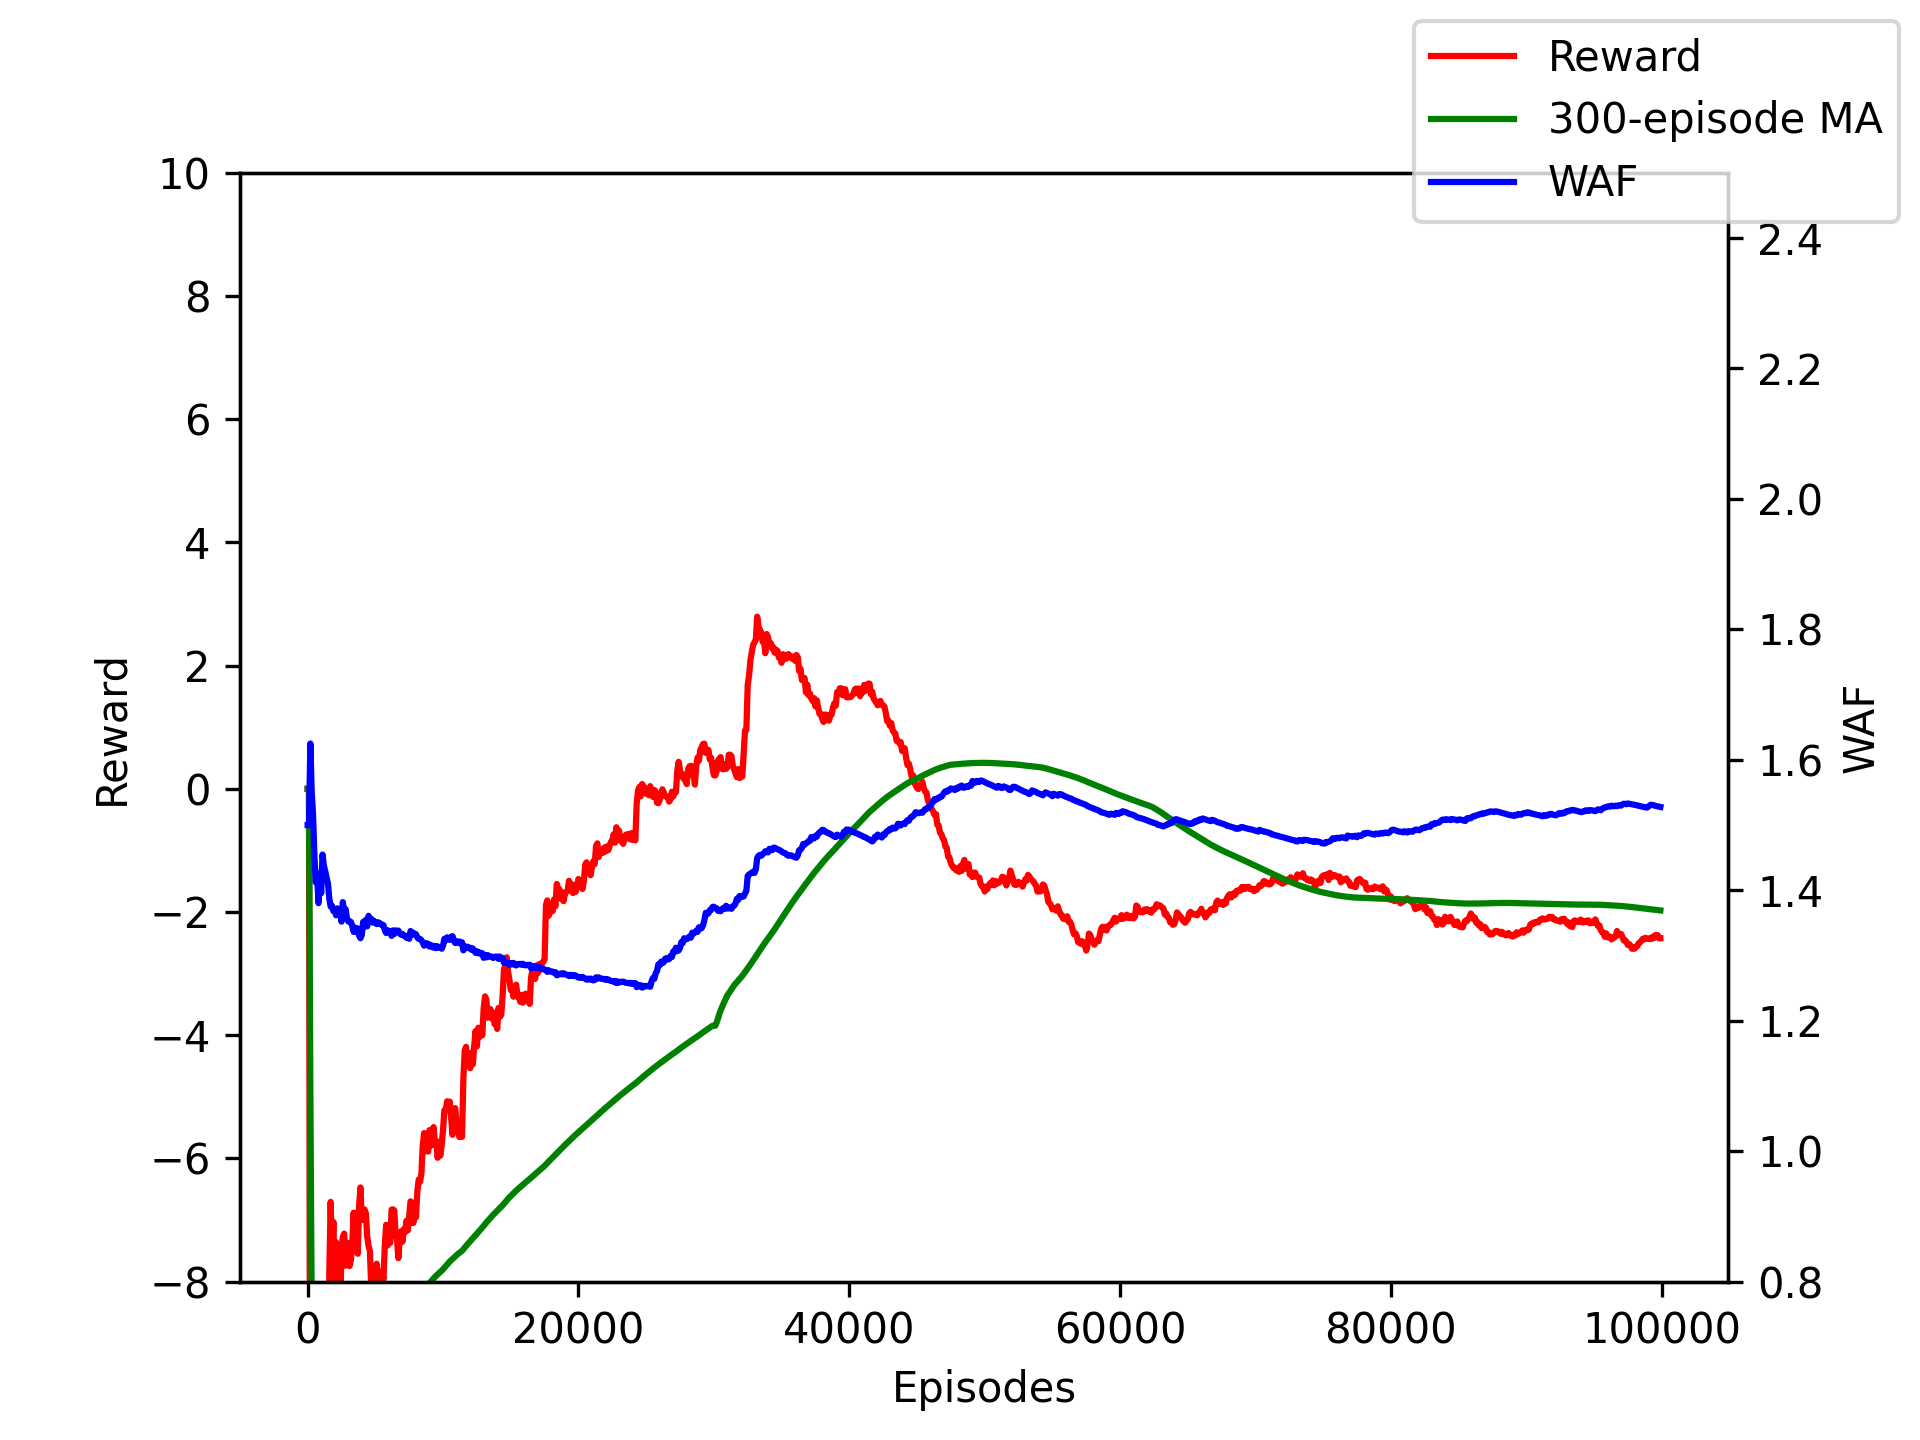
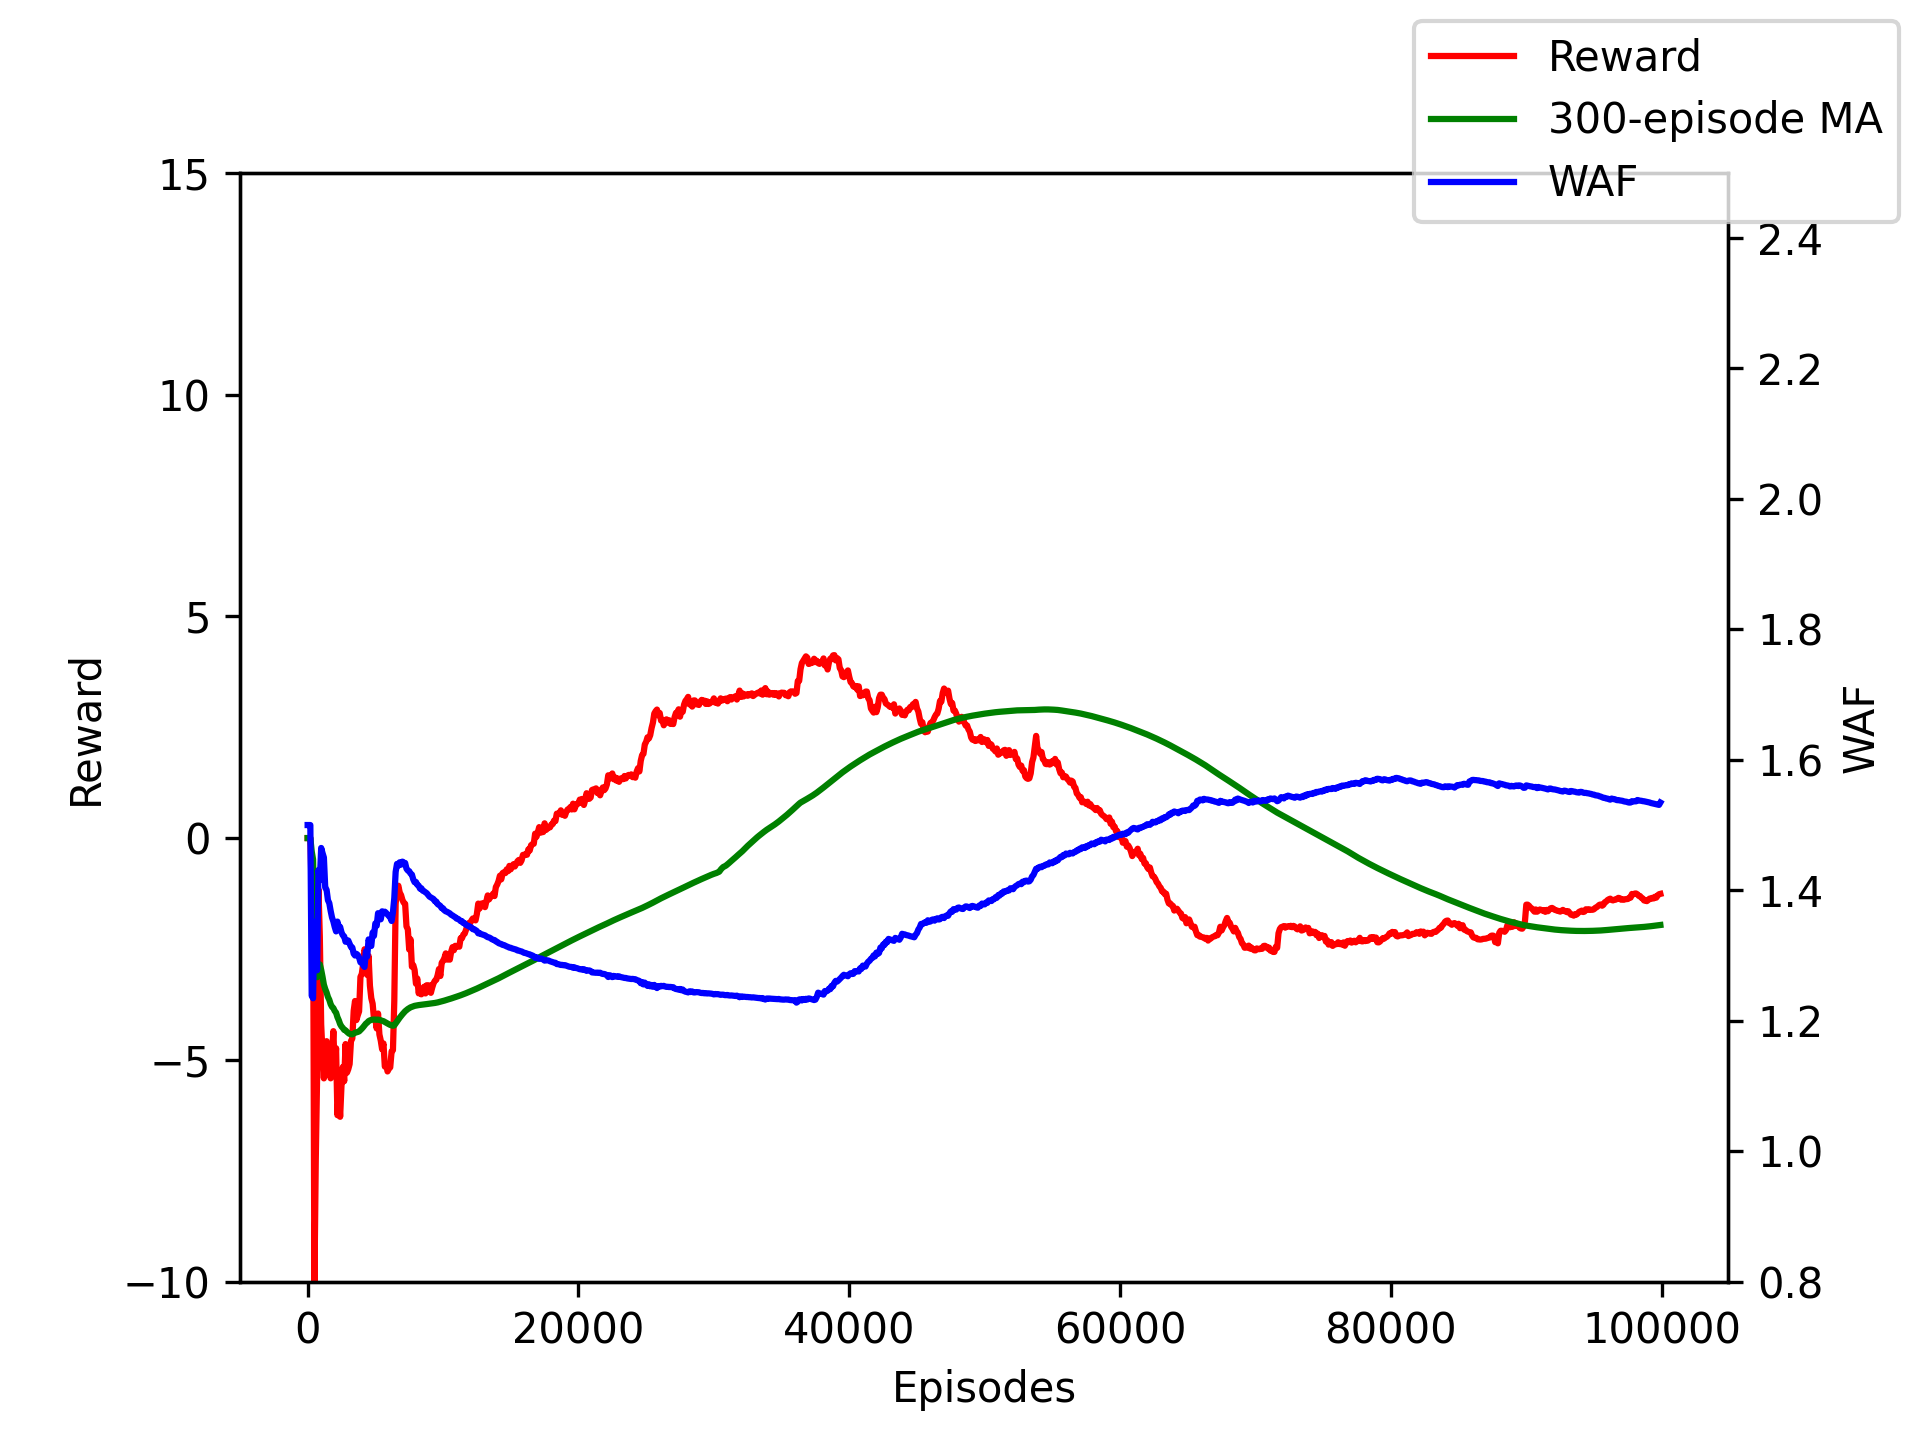
add report

diff --git a/host/host_interface.py b/host/host_interface.py
@@ -16,8 +16,11 @@ class HostInterface:
         self.hostRequestQueueAction = HostRequestQueueAction()
         self.hostRequestQueueAction.LoadTrace(TRACE_PATH, TRACE_LENGTH)
         self.hostRequestQueueAction._idx = START_POINT
-        self.flashTranslation = FlashTranslation()
+        self.flashTranslation = FlashTranslation(self)
         self.currentRequest = None
+        self.coldActionCount = 0
+        self.hotActionCount = 0
+        self.rewardSum = 0
 
     # reset everything
     def Reset(self):
@@ -25,6 +28,9 @@ class HostInterface:
         self.hostRequestQueueAction.Reset()
         self.episode = 0 
         self.step = 0
+        self.coldActionCount = 0
+        self.hotActionCount = 0
+        self.rewardSum = 0
         self.currentRequest = self.hostRequestQueueAction.GetWriteRequest()
         return self.currentRequest
 
@@ -33,6 +39,9 @@ class HostInterface:
         self.flashTranslation.Reset()
         self.episode += 1
         self.step = 0
+        self.coldActionCount = 0
+        self.hotActionCount = 0
+        self.rewardSum = 0
         self.currentRequest = self.hostRequestQueueAction.GetWriteRequest()
         return self.currentRequest
 
@@ -60,12 +69,21 @@ class HostInterface:
     
     def GetChangeRatioReward(self):
         return self.flashTranslation.nandController.GetChangeRatioReward()
+    
+    def GetColdHotCount(self):
+        return self.coldActionCount, self.hotActionCount
+
+    def GetTotalReward(self):
+        return self.rewardSum
 
     # environment step for testing strategy
     def Step(self):
         writeRequest = self.hostRequestQueueAction.GetWriteRequest()
         totalWriteBytes = self.Fio(writeRequest)
         self.step += 1
+        self.EstimateStatus()
+        reward = self.GetReward()
+        self.rewardSum += reward
         return writeRequest, totalWriteBytes
 
     def Fio(self, request):
@@ -73,11 +91,16 @@ class HostInterface:
     
     # environment step for RL strategy
     def StepByAction(self, action):
+        if action == 0:
+            self.coldActionCount += 1
+        else:
+            self.hotActionCount += 1
         totalWriteBytes = self.FioByAction(self.currentRequest, action)
         self.step += 1
         self.currentRequest = self.hostRequestQueueAction.GetWriteRequest()
         self.EstimateStatus()
         reward = self.GetReward()
+        self.rewardSum += reward
         return reward, self.currentRequest
     
     def FioByAction(self, request, action):

diff --git a/main.py b/main.py
@@ -1,5 +1,6 @@
 from host.host_interface import HostInterface
 from libs.history import History
+from libs.report import WriteReport
 import multiprocessing
 from tqdm import tqdm
 from dotenv import load_dotenv
@@ -16,7 +17,7 @@ SIMULATE_PROGRESS_RESULT = os.getenv('SIMULATE_PROGRESS_RESULT')
 CHANGE_RATIO_PROGRESS_RESULT = os.getenv('CHANGE_RATIO_PROGRESS_RESULT')
 MA_PERIOD = int(os.getenv('MA_PERIOD'))
 CHANGE_RATIO_REWARD = bool(int(os.getenv('CHANGE_RATIO_REWARD')))
-
+REPORT_RESULT = os.getenv('REPORT_RESULT')
 
 def strategy(strategyType):
     hostInterface = HostInterface()
@@ -38,6 +39,11 @@ def strategy(strategyType):
     history.ShowGCDistribution(f'{GC_DISTRIBUTION_RESULT}/{strategyType}.png', hostInterface.GetGCSuccessEpisodes())
     if CHANGE_RATIO_REWARD:
         history.ShowChangeRatioReward(f'{CHANGE_RATIO_PROGRESS_RESULT}/{strategyType}.png')
+    # write simulation report 
+    gcCount = len(hostInterface.GetGCSuccessEpisodes().keys())
+    rewardSum = hostInterface.GetTotalReward()
+    coldCount, hotCount = hostInterface.GetColdHotCount()
+    WriteReport(f'{REPORT_RESULT}/{strategyType}.txt', TRACE_RUN_LENGTH, gcCount, rewardSum, coldCount, hotCount)
 
 def main():
     strategyTypes = STRATEGY_TYPES.split(',')

diff --git a/test.py b/test.py
@@ -56,5 +56,19 @@ def DrawingGCDistribution():
     plt.savefig('test2.png', dpi=300)
     plt.clf()
 
+def WriteReport(path, length, gcCount, rewardSum, coldCount, hotCount):
+    report = f'Simulation Report\n'
+    report += '-' * 35 + '\n'
+    report += '{:35s} {:20d}\n'.format('Simulate Length:', length)
+    report += '{:35s} {:20d}\n'.format('Total Gc Times:', gcCount)
+    report += '{:35s} {:20.2f}\n'.format('Total Reward:', rewardSum)
+    report += '{:35s} {:20d}\n'.format('Cold Action Count:', coldCount)
+    report += '{:35s} {:20d}\n'.format('Hot Action Count:', hotCount)
+    report += '{:35s} {:20.2f}\n'.format('Cold Action Ratio:', (coldCount / length))
+    report += '{:35s} {:20.2f}\n'.format('Hot Action Ratio:', (hotCount / length))
+    with open(path, 'w') as file:
+        file.write(report)
+
 if __name__ == "__main__":
-    DrawingDoubleCurve()
+    # DrawingDoubleCurve()
+    WriteReport('test.txt', 100000, 243, 122308.15021111527, 19399, 80601)

diff --git a/ftl/flash_translation.py b/ftl/flash_translation.py
@@ -15,7 +15,8 @@ ACTION_TYPE = os.getenv('ACTION_TYPE')
 ACTIVE_GC_PERIOD = int(os.getenv('ACTIVE_GC_PERIOD'))
 
 class FlashTranslation:
-    def __init__(self):
+    def __init__(self, hostInterface):
+        self.hostInterface = hostInterface
         self.dataCacheManage = DataCacheManage()
         self.nandController = NandController()
         self.addressTranslation = AddressTranslation()
@@ -51,6 +52,10 @@ class FlashTranslation:
         totalWriteBytes = 0
         self.dataCacheManage.WriteCache(request)
         writeType = self.GetBlockType(request)
+        if writeType == BlockType.COLD:
+            self.hostInterface.coldActionCount += 1
+        else:
+            self.hostInterface.hotActionCount += 1
         while True:
             page = self.dataCacheManage.GetCache()
             if not page: break

diff --git a/libs/report.py b/libs/report.py
@@ -1,0 +1,16 @@
+from dotenv import load_dotenv
+import os
+load_dotenv()
+
+def WriteReport(path, length, gcCount, rewardSum, coldCount, hotCount):
+    report = f'Simulation Report\n'
+    report += '-' * 35 + '\n'
+    report += '{:35s} {:20d}\n'.format('Simulate Length:', length)
+    report += '{:35s} {:20d}\n'.format('Total Gc Times:', gcCount)
+    report += '{:35s} {:20.2f}\n'.format('Total Reward:', rewardSum)
+    report += '{:35s} {:20d}\n'.format('Cold Action Count:', coldCount)
+    report += '{:35s} {:20d}\n'.format('Hot Action Count:', hotCount)
+    report += '{:35s} {:20.2f}\n'.format('Cold Action Ratio:', (coldCount / length))
+    report += '{:35s} {:20.2f}\n'.format('Hot Action Ratio:', (hotCount / length))
+    with open(path, 'w') as file:
+        file.write(report)

diff --git a/libs/history.py b/libs/history.py
@@ -37,7 +37,7 @@ class History:
         ax1.set_xlabel('Episodes')
         ax1.set_ylabel('Reward')
         ax2.set_ylabel('WAF')
-        ax1.set_ylim(-8, 10)
+        ax1.set_ylim(-10, 15)
         ax2.set_ylim(0.8, 2.5)
         ax1.plot(self.rewardWafEpisodes, self.rewards, label='Reward', color='red')
         ax2.plot(self.rewardWafEpisodes, self.wafs, label='WAF', color='blue')
